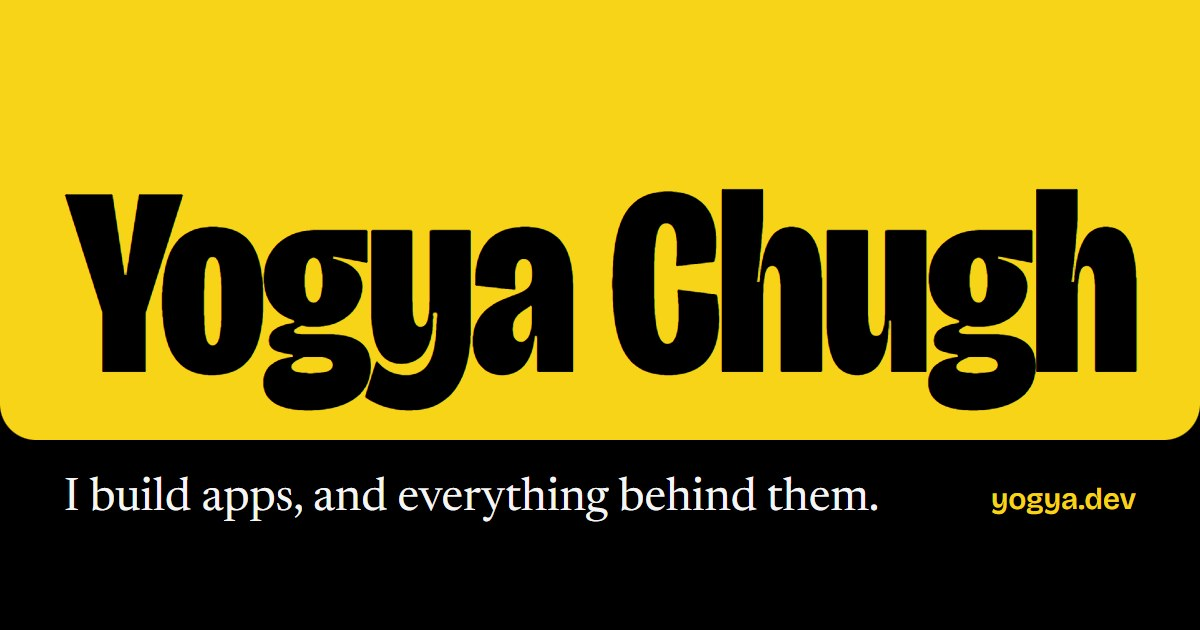
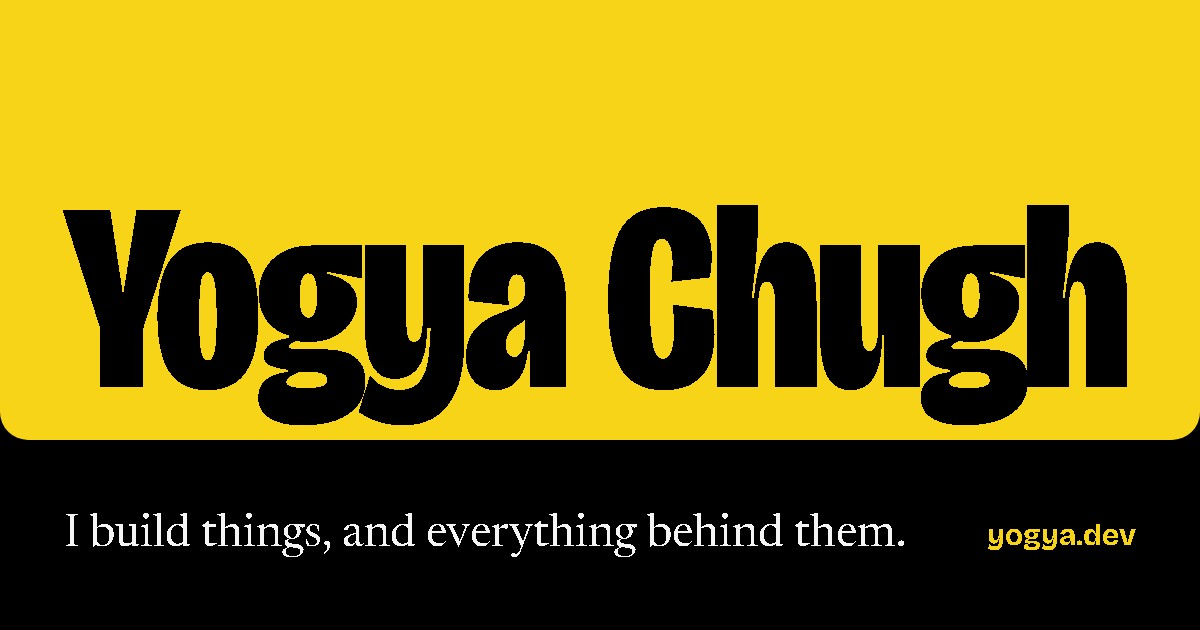
Tagline: "I build things, and everything behind them."
New social card with the line, versioned as og.jpg?v=2 so link previews refresh.

diff --git a/_lab/index.html b/_lab/index.html
@@ -132,7 +132,7 @@ a { color: inherit; }
   <h1 class="fit window" aria-label="Yogya Chugh"><span class="line" aria-hidden="true">Yogya</span><span class="line" aria-hidden="true">Chugh</span></h1>
   <div class="bottom">
     <div>
-      <p class="intro-line">I build apps, and everything behind them.</p>
+      <p class="intro-line">I build things, and everything behind them.</p>
       <p class="sub" style="margin:0">Software engineer. Based in India, working with teams anywhere.</p>
     </div>
     <div class="actions"><a class="btn btn-a" href="#">Email me</a><a class="btn" href="#">Résumé</a></div>
@@ -147,7 +147,7 @@ a { color: inherit; }
   </div>
   <div class="rest">
     <div>
-      <p class="intro-line">I build apps, and everything behind them.</p>
+      <p class="intro-line">I build things, and everything behind them.</p>
       <p class="sub" style="margin:0">Software engineer. Based in India, working with teams anywhere.</p>
     </div>
     <div class="actions"><a class="btn btn-a" href="#">Email me</a><a class="btn" href="#">Résumé</a></div>
@@ -161,7 +161,7 @@ a { color: inherit; }
   <div class="rule"></div>
   <div class="bottom">
     <div>
-      <p class="intro-line">I build apps, and everything behind them.</p>
+      <p class="intro-line">I build things, and everything behind them.</p>
       <p class="sub" style="margin:0">Software engineer. Based in India, working with teams anywhere.</p>
     </div>
     <div class="actions"><a class="btn btn-a" href="#">Email me</a><a class="btn" href="#">Résumé</a></div>
@@ -174,7 +174,7 @@ a { color: inherit; }
   <div class="grid">
     <div>
       <h1 class="big">Yogya<br>Chugh</h1>
-      <p class="intro-line">I build apps, and everything behind them.</p>
+      <p class="intro-line">I build things, and everything behind them.</p>
       <p class="sub">Software engineer. Based in India, working with teams anywhere.</p>
       <div class="actions"><a class="btn btn-a" href="#">Email me</a><a class="btn" href="#">Résumé</a></div>
     </div>
@@ -191,7 +191,7 @@ a { color: inherit; }
   </div>
   <div class="bottom">
     <div>
-      <p class="intro-line">I build apps, and everything behind them.</p>
+      <p class="intro-line">I build things, and everything behind them.</p>
       <p class="sub" style="margin:0">Software engineer. Based in India, working with teams anywhere.</p>
     </div>
     <div class="actions"><a class="btn btn-a" href="#">Email me</a><a class="btn" href="#">Résumé</a></div>
@@ -204,7 +204,7 @@ a { color: inherit; }
   <div class="col">
     <nav class="nav"><a href="#">Notes</a><a href="#">Résumé</a><a class="btn btn-a" href="#">Email me</a></nav>
     <div class="center">
-      <p class="intro-line">I build apps, and everything behind them.</p>
+      <p class="intro-line">I build things, and everything behind them.</p>
       <p class="sub">Software engineer. Based in India, working with teams anywhere.</p>
       <p class="status">Open to freelance work</p>
       <div class="actions"><a class="btn btn-a" href="#">Email me</a><a class="btn" href="#">Résumé</a></div>

diff --git a/index.html b/index.html
@@ -12,8 +12,8 @@
 <meta property="og:type" content="website">
 <meta property="og:url" content="https://yogya.dev/">
 <meta property="og:title" content="Yogya Chugh">
-<meta property="og:description" content="Software engineer. I build apps, and everything behind them.">
-<meta property="og:image" content="https://yogya.dev/assets/og.jpg">
+<meta property="og:description" content="Software engineer. I build things, and everything behind them.">
+<meta property="og:image" content="https://yogya.dev/assets/og.jpg?v=2">
 <meta property="og:image:width" content="1200">
 <meta property="og:image:height" content="630">
 <meta name="twitter:card" content="summary_large_image">
@@ -118,7 +118,7 @@
     </div>
     <div class="wrap landing-rest">
       <div>
-        <p class="intro-line">I build apps, and everything behind them.</p>
+        <p class="intro-line">I build things, and everything behind them.</p>
         <p class="intro-sub">Software engineer. Based in India, working with teams anywhere.</p>
       </div>
       <div class="actions">

diff --git a/blogs/vardhman.html b/blogs/vardhman.html
@@ -12,7 +12,7 @@
 <meta property="og:description" content="How an Android app, an admin console and a backend stopped paying for servers.">
 <meta property="og:url" content="https://yogya.dev/blogs/vardhman">
 <meta property="og:site_name" content="Yogya Chugh">
-<meta property="og:image" content="https://yogya.dev/assets/og.jpg">
+<meta property="og:image" content="https://yogya.dev/assets/og.jpg?v=2">
 <meta property="og:image:width" content="1200">
 <meta property="og:image:height" content="630">
 <meta property="article:author" content="https://yogya.dev/">

diff --git a/blogs/first_open_source.html b/blogs/first_open_source.html
@@ -12,7 +12,7 @@
 <meta property="og:description" content="A confusing error became a Django ticket, a patch, and a merged fix.">
 <meta property="og:url" content="https://yogya.dev/blogs/first_open_source">
 <meta property="og:site_name" content="Yogya Chugh">
-<meta property="og:image" content="https://yogya.dev/assets/og.jpg">
+<meta property="og:image" content="https://yogya.dev/assets/og.jpg?v=2">
 <meta property="og:image:width" content="1200">
 <meta property="og:image:height" content="630">
 <meta property="article:author" content="https://yogya.dev/">

diff --git a/blogs/summer_of_making.html b/blogs/summer_of_making.html
@@ -12,7 +12,7 @@
 <meta property="og:description" content="What a long summer of building taught me about finishing.">
 <meta property="og:url" content="https://yogya.dev/blogs/summer_of_making">
 <meta property="og:site_name" content="Yogya Chugh">
-<meta property="og:image" content="https://yogya.dev/assets/og.jpg">
+<meta property="og:image" content="https://yogya.dev/assets/og.jpg?v=2">
 <meta property="og:image:width" content="1200">
 <meta property="og:image:height" content="630">
 <meta property="article:author" content="https://yogya.dev/">
